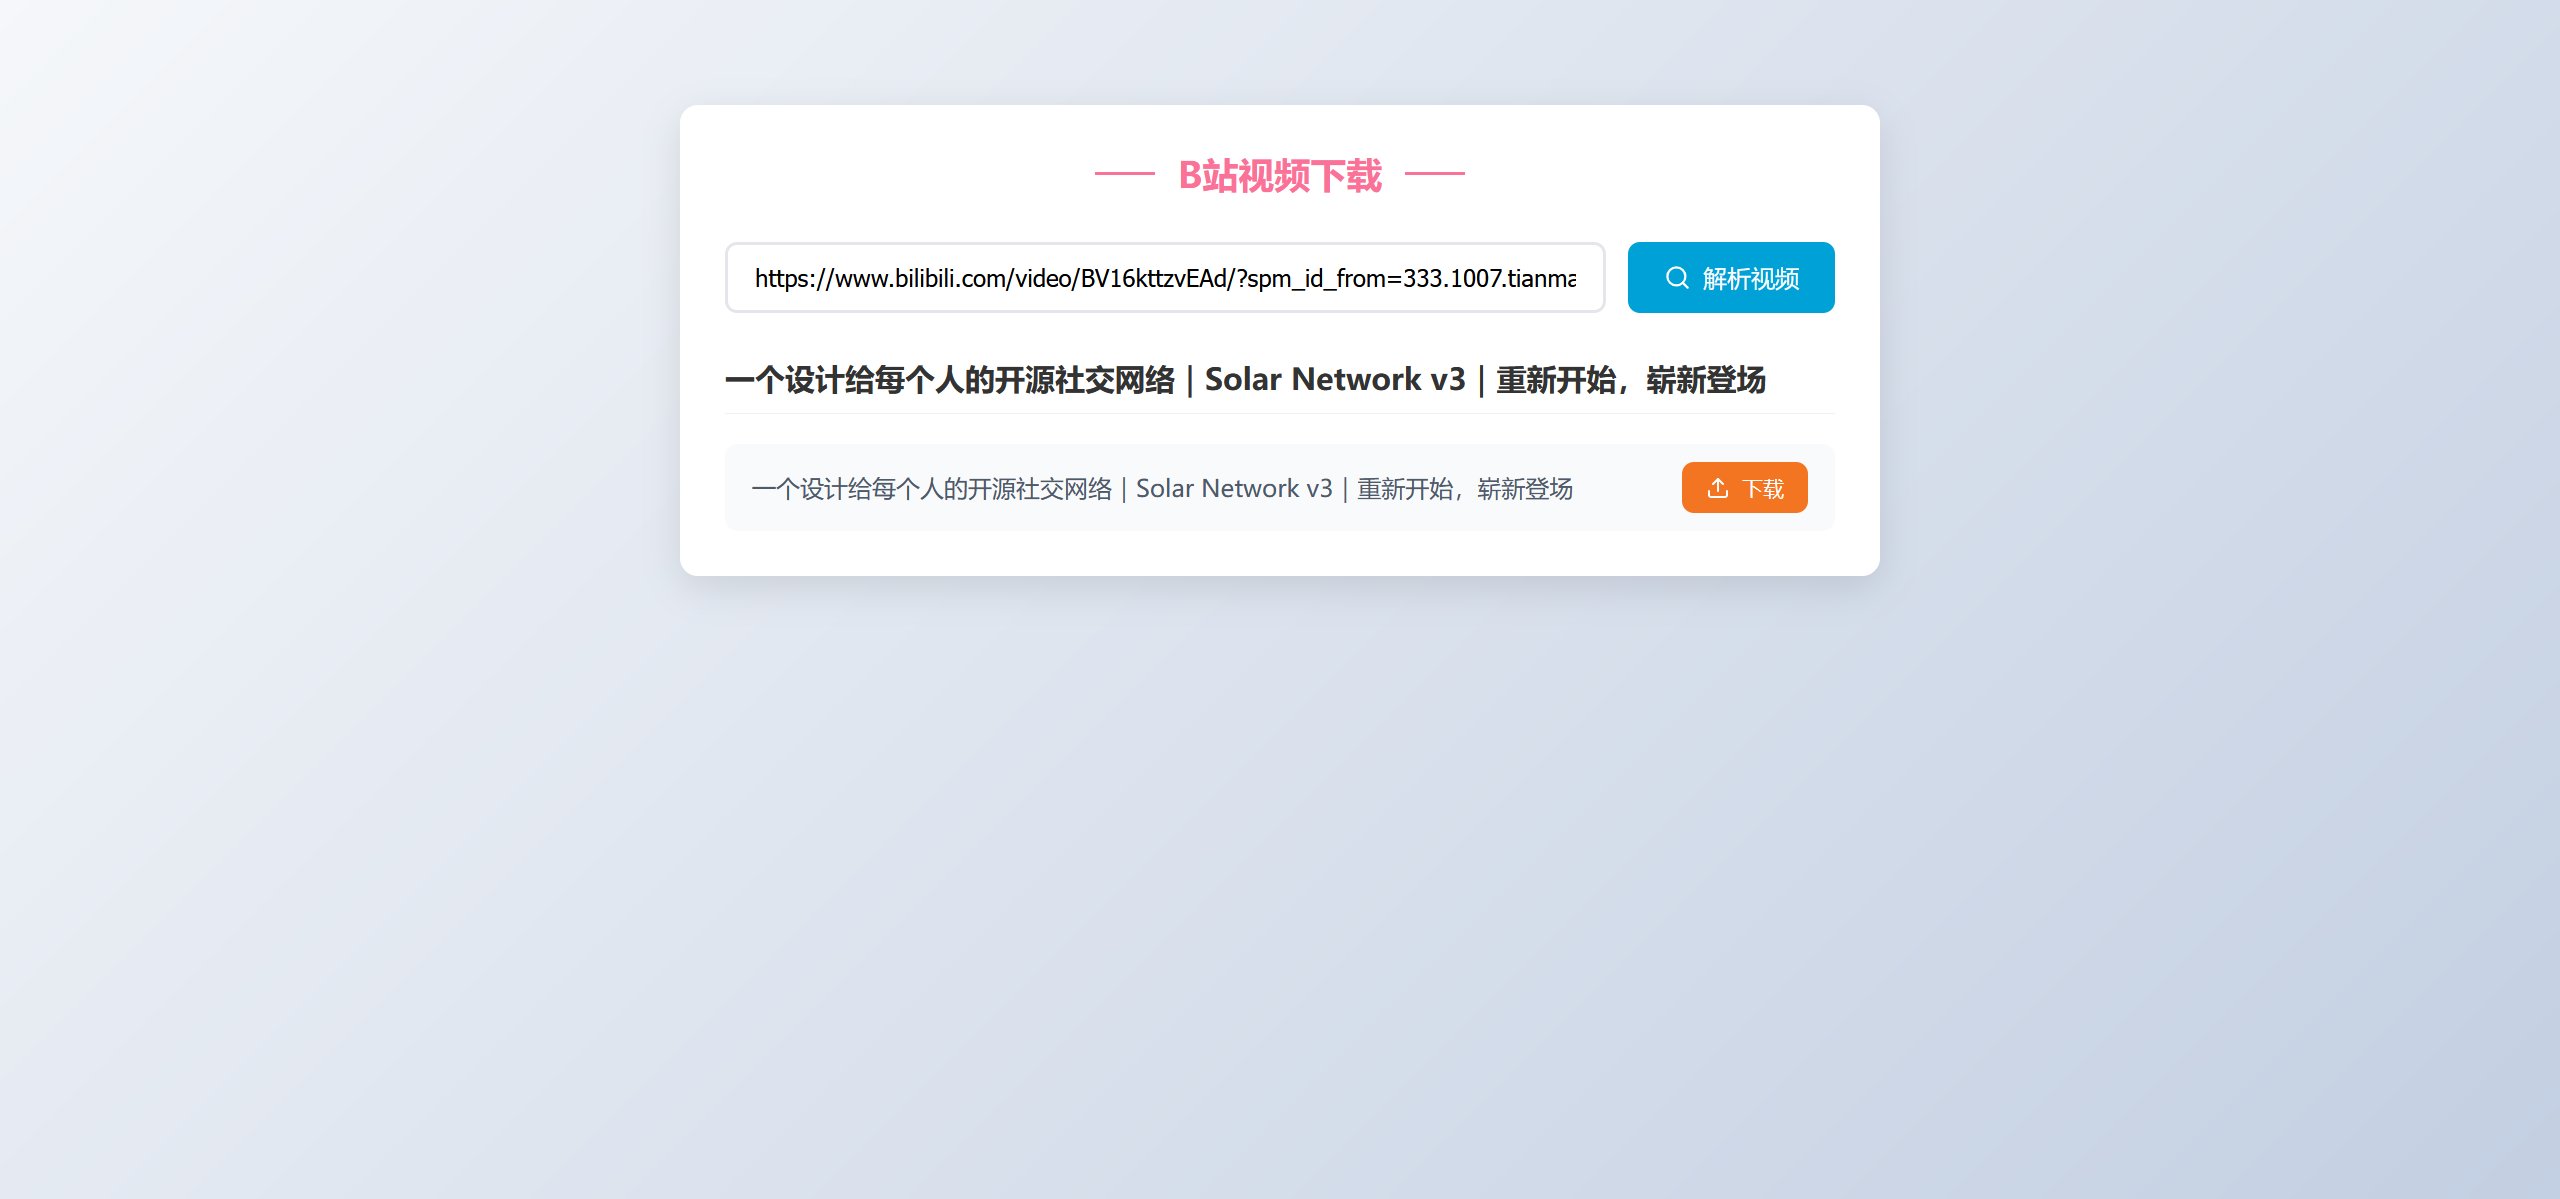
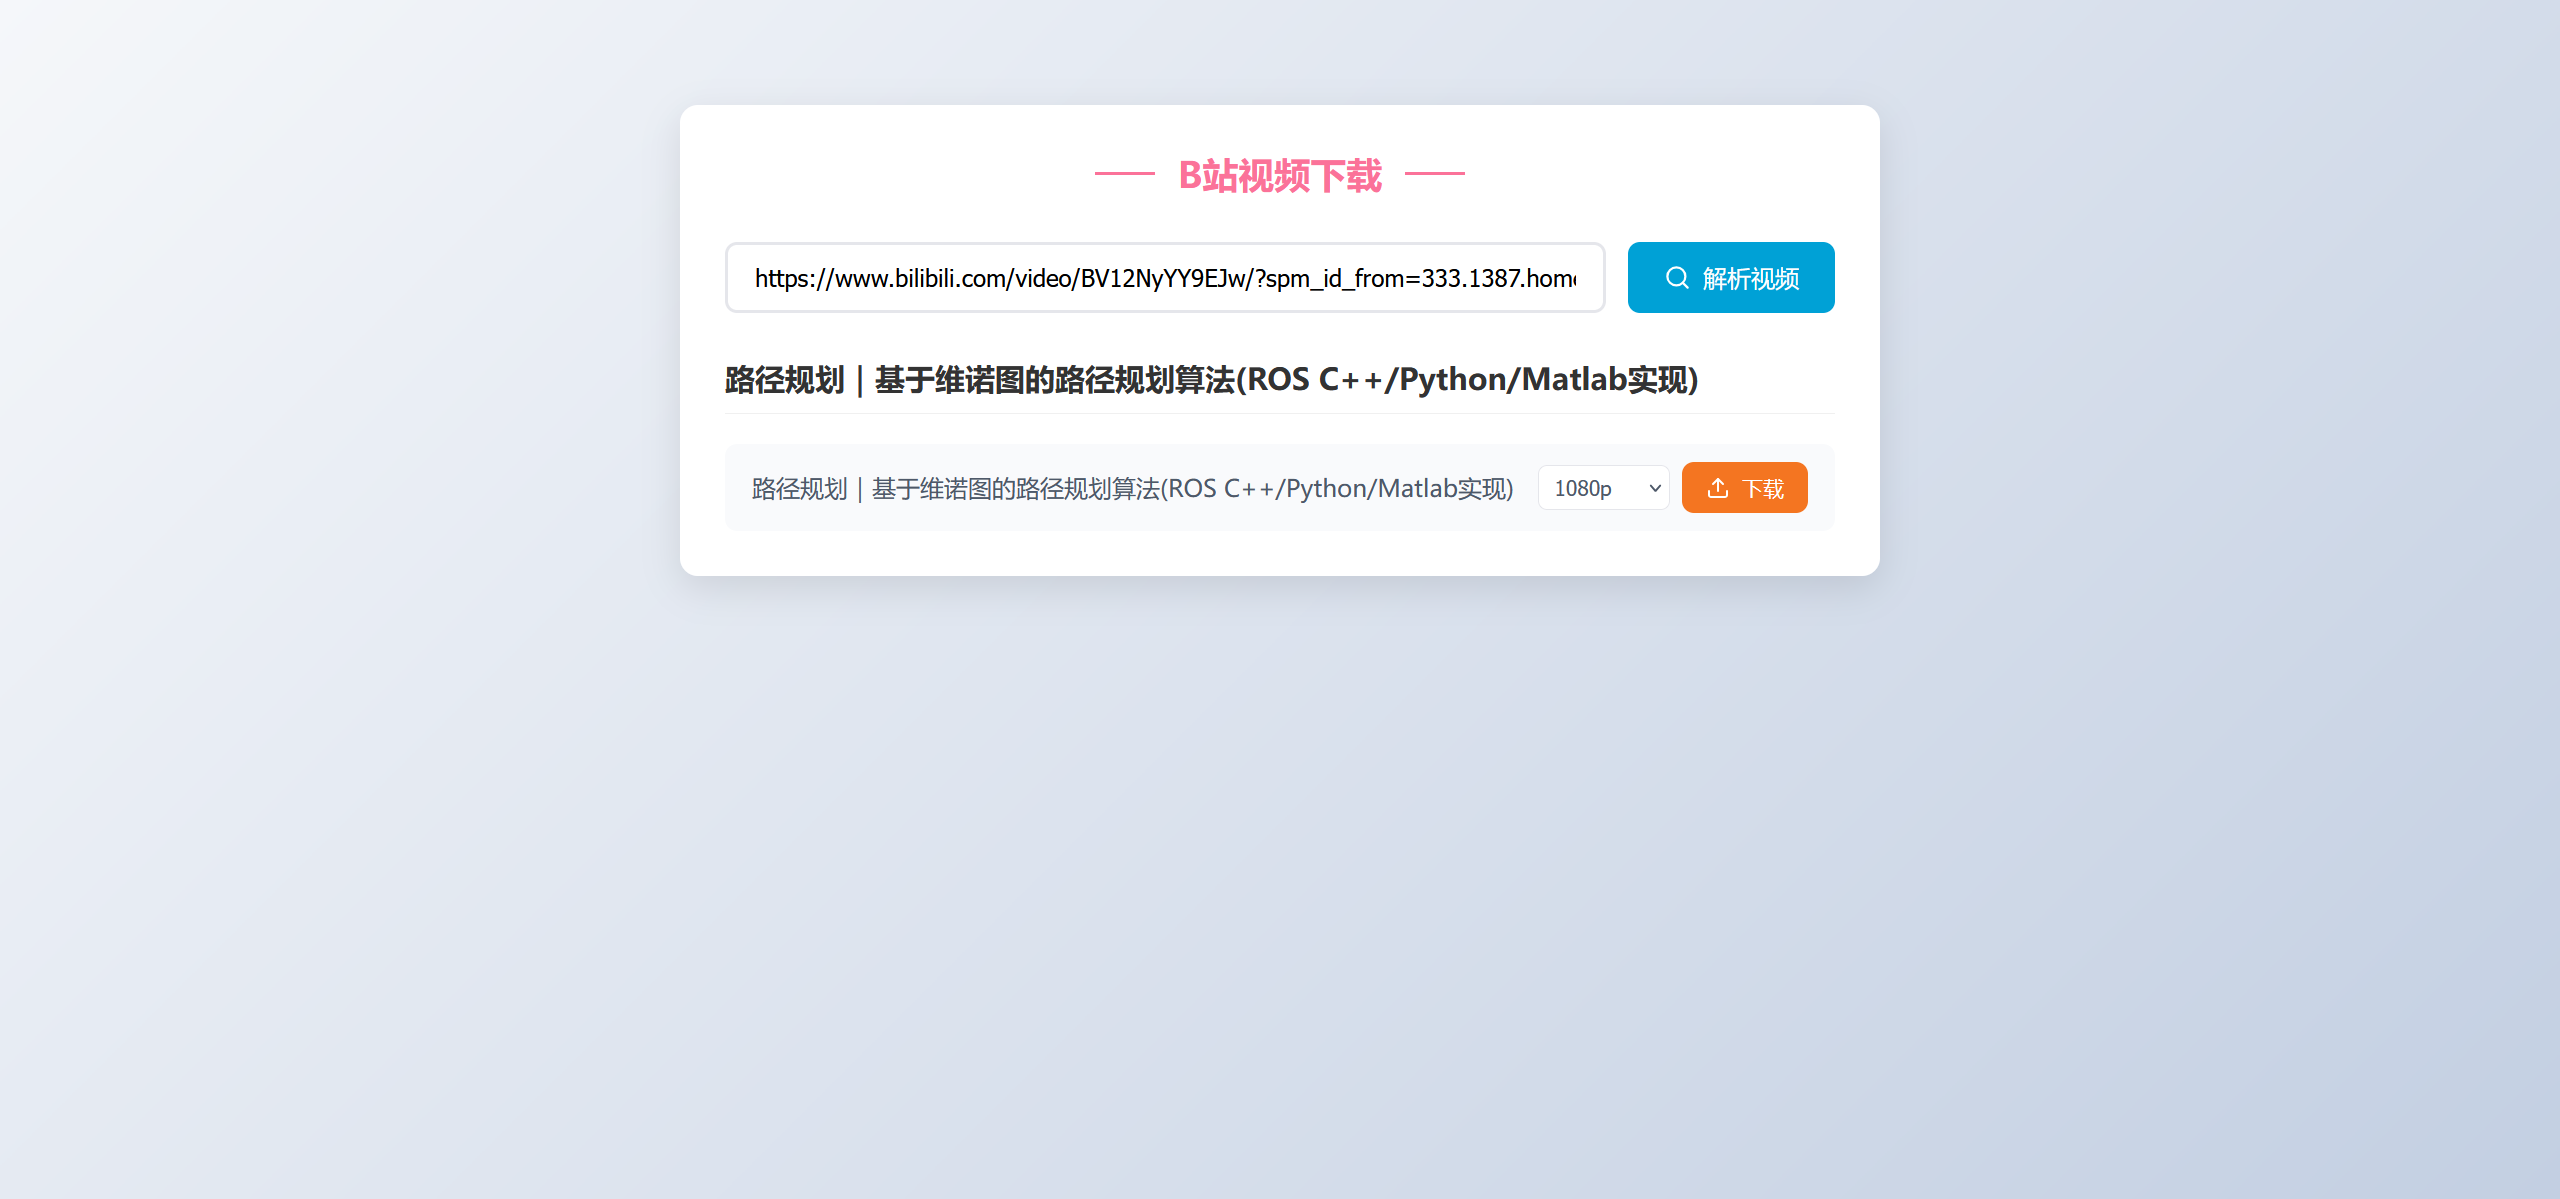
Update V2

Changed region(s): [[0.2812, 0.3086, 0.6875, 0.3394], [0.2812, 0.4012, 0.625, 0.432], [0.4375, 0.216, 0.625, 0.2469]]

diff --git a/frontend/index.html b/frontend/index.html
@@ -125,6 +125,21 @@
       transform: translateY(-1px);
     }
 
+    /* 清晰度选择框样式 */
+    .quality-select {
+      padding: 6px 10px;
+      border: 1px solid #e5e6eb;
+      border-radius: 6px;
+      font-size: 14px;
+      color: #4e5969;
+      background-color: #fff;
+      outline: none;
+    }
+
+    .quality-select:focus {
+      border-color: #00a1d6;
+    }
+
     /* 视频信息展示区域 */
     #info {
       width: 100%;
@@ -161,7 +176,7 @@
       white-space: nowrap;
     }
 
-    /* 加载状态提示（新增） */
+    /* 加载状态提示 */
     .loading {
       color: #00a1d6;
       text-align: center;
@@ -169,7 +184,7 @@
       font-size: 16px;
     }
 
-    /* 错误提示样式（新增） */
+    /* 错误提示样式 */
     .error {
       color: #f53f3f;
       text-align: center;
@@ -277,21 +292,30 @@
         if (!res.ok) throw new Error('解析失败，请检查链接是否有效');
 
         const j = await res.json();
-        // 4. 渲染视频信息
+        // 4. 渲染视频信息（包含清晰度选择）
         infoContainer.innerHTML = `
       <h3 class="video-title">${j.title}</h3>
       <div class="video-parts">
         ${j.parts.map(p => `
           <div class="part-item">
             <span class="part-name">${p.part}</span>
-            <button class="btn btn-download" onclick="download('${j.bvid}',${p.cid})">
-              <svg width="16" height="16" viewBox="0 0 24 24" fill="none" xmlns="http://www.w3.org/2000/svg">
-                <path d="M21 15V19C21 19.5304 20.7893 20.0391 20.4142 20.4142C20.0391 20.7893 19.5304 21 19 21H5C4.46957 21 3.96086 20.7893 3.58579 20.4142C3.21071 20.0391 3 19.5304 3 19V15" stroke="currentColor" stroke-width="2" stroke-linecap="round" stroke-linejoin="round"/>
-                <path d="M17 8L12 3L7 8" stroke="currentColor" stroke-width="2" stroke-linecap="round" stroke-linejoin="round"/>
-                <path d="M12 3V15" stroke="currentColor" stroke-width="2" stroke-linecap="round" stroke-linejoin="round"/>
-              </svg>
-              下载
-            </button>
+            <div style="display: flex; align-items: center; gap: 8px;">
+              <select class="quality-select" data-bvid="${j.bvid}" data-cid="${p.cid}">
+                <option value="16">360p</option>
+                <option value="32">480p</option>
+                <option value="64">720p</option>
+                <option value="80" selected>1080p</option>
+                <option value="116">1080p+</option>
+              </select>
+              <button class="btn btn-download" onclick="download('${j.bvid}', ${p.cid}, this.previousElementSibling.value)">
+                <svg width="16" height="16" viewBox="0 0 24 24" fill="none" xmlns="http://www.w3.org/2000/svg">
+                  <path d="M21 15V19C21 19.5304 20.7893 20.0391 20.4142 20.4142C20.0391 20.7893 19.5304 21 19 21H5C4.46957 21 3.96086 20.7893 3.58579 20.4142C3.21071 20.0391 3 19.5304 3 19V15" stroke="currentColor" stroke-width="2" stroke-linecap="round" stroke-linejoin="round"/>
+                  <path d="M17 8L12 3L7 8" stroke="currentColor" stroke-width="2" stroke-linecap="round" stroke-linejoin="round"/>
+                  <path d="M12 3V15" stroke="currentColor" stroke-width="2" stroke-linecap="round" stroke-linejoin="round"/>
+                </svg>
+                下载
+              </button>
+            </div>
           </div>
         `).join('')}
       </div>
@@ -302,11 +326,12 @@
       }
     }
 
-    function download(bvid, cid) {
-      window.open(`${apiBase}/download?bvid=${bvid}&cid=${cid}`, '_blank');
+    function download(bvid, cid, qn) {
+      // 传递清晰度参数qn
+      window.open(`${apiBase}/download?bvid=${bvid}&cid=${cid}&qn=${qn}`, '_blank');
     }
 
-    // 新增：支持回车键触发解析
+    // 支持回车键触发解析
     document.getElementById('url').addEventListener('keydown', (e) => {
       if (e.key === 'Enter') getInfo();
     });
